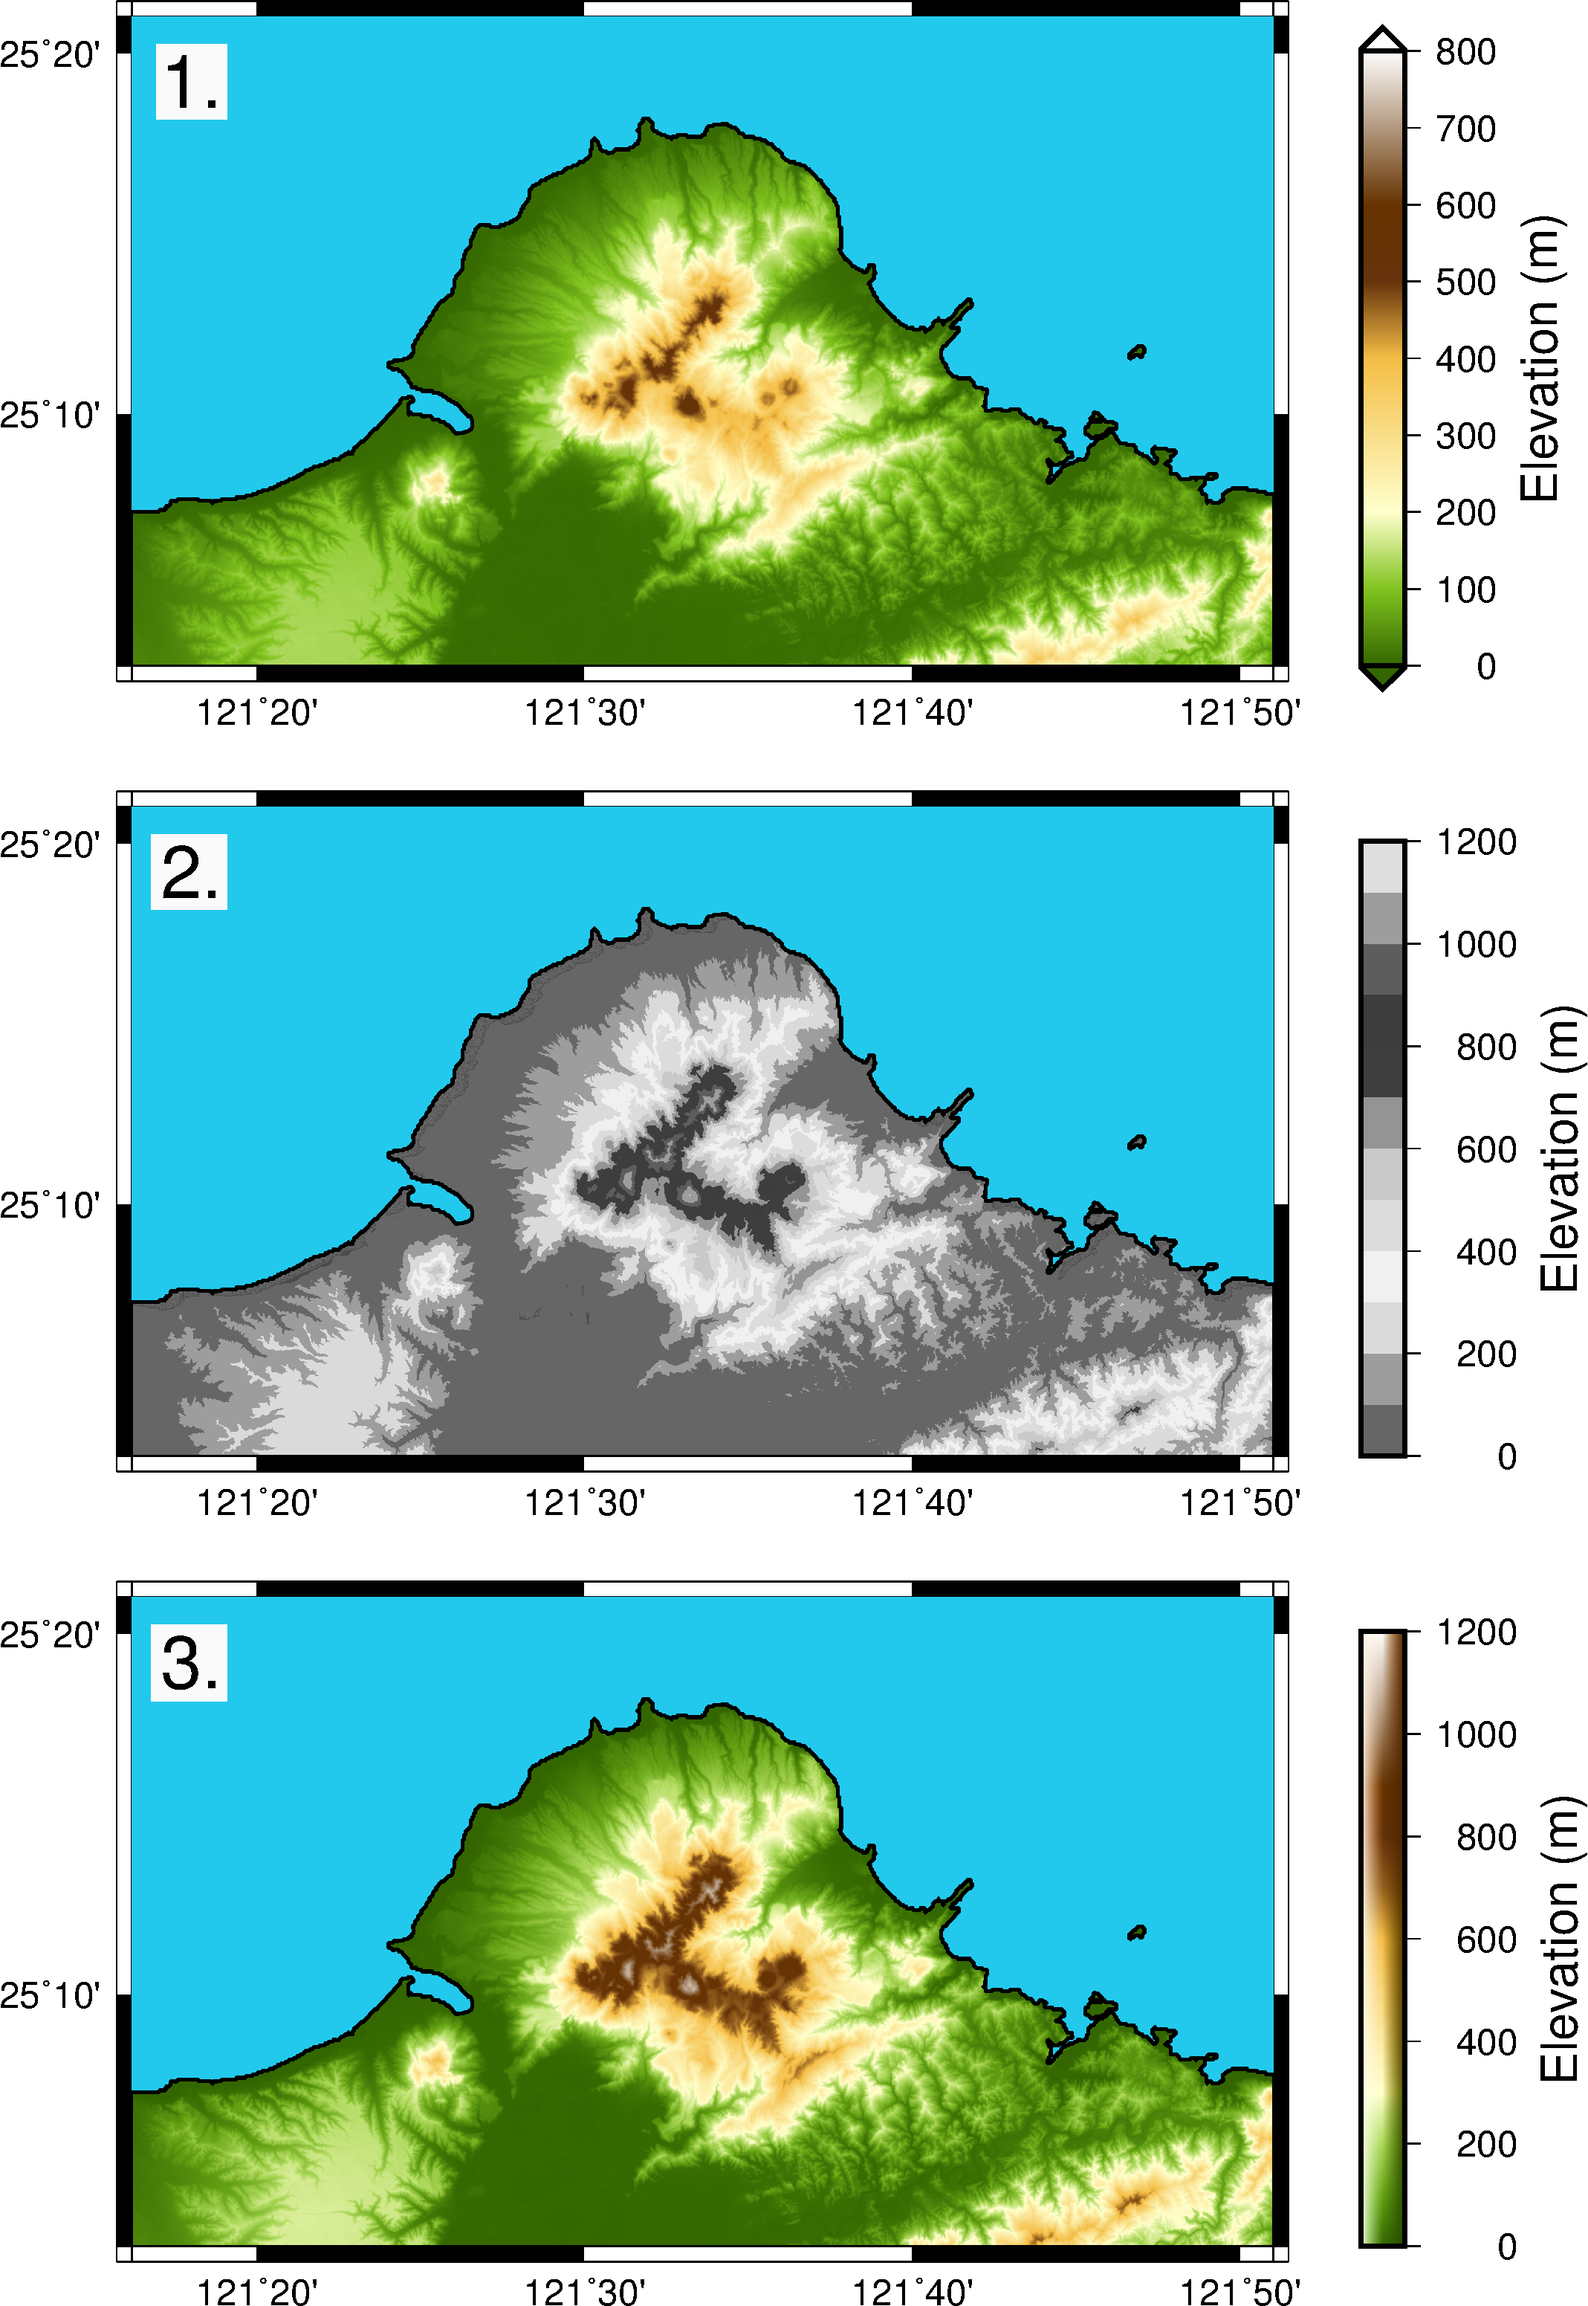
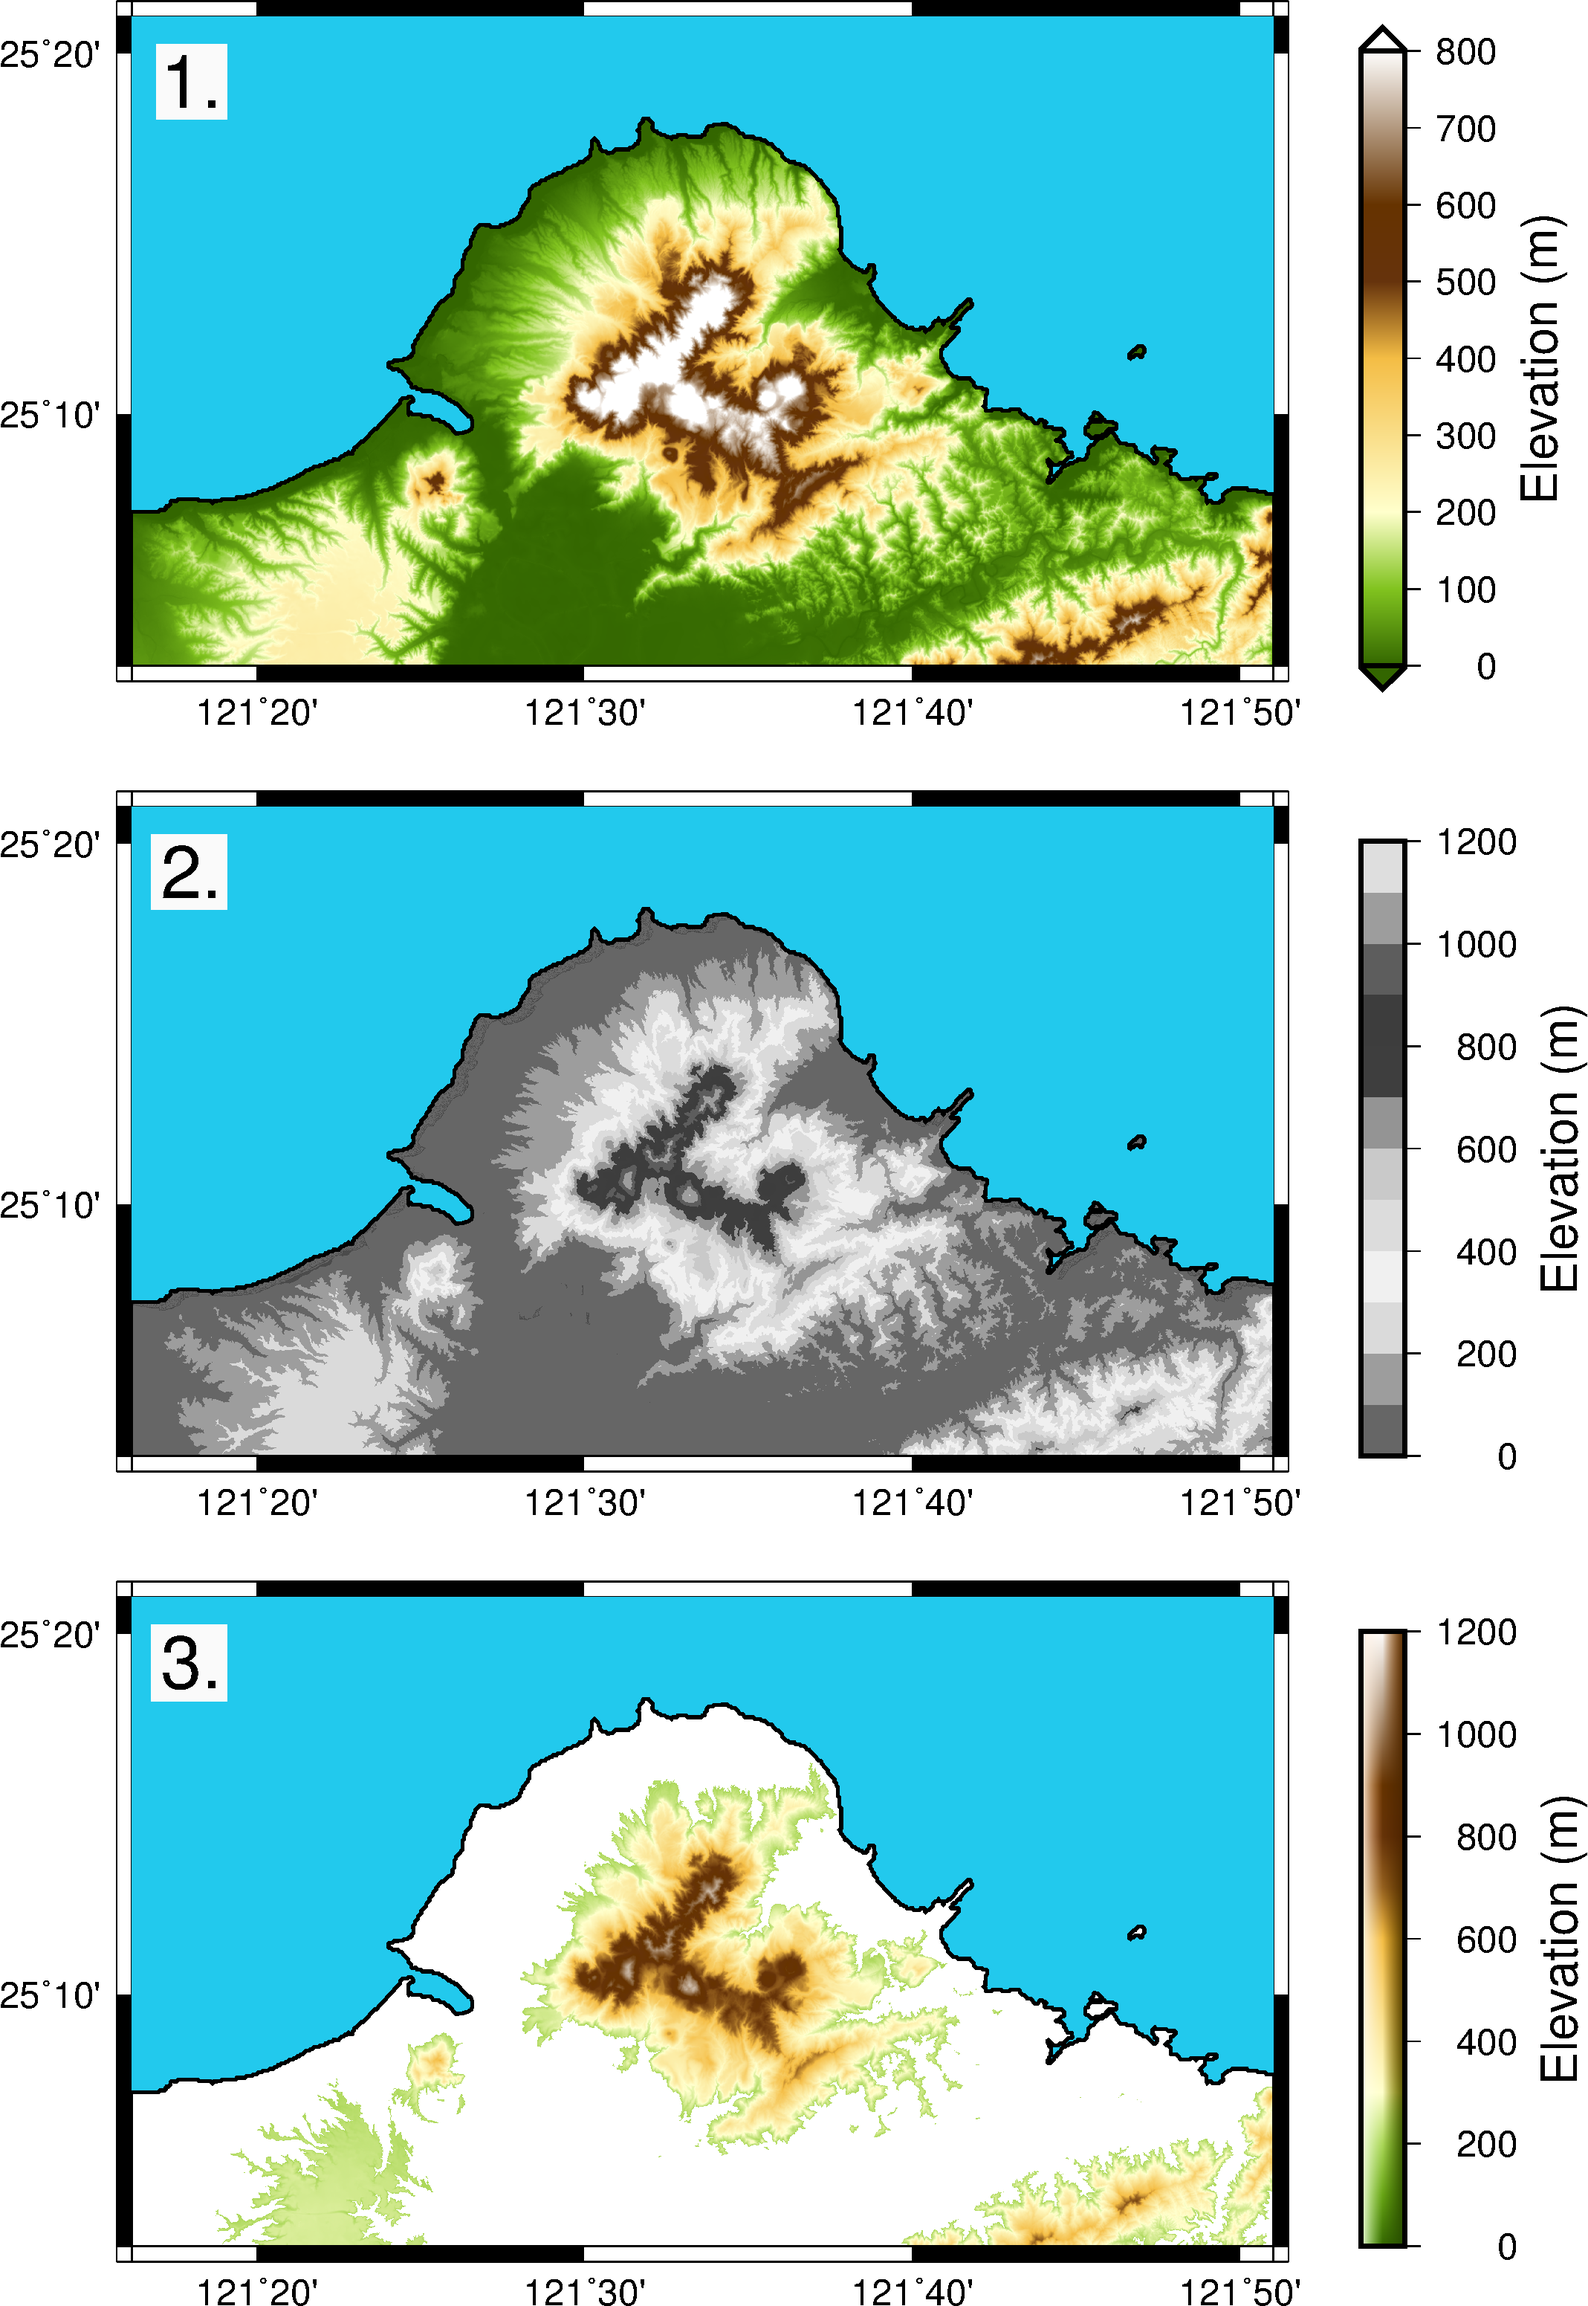
add grdclip in 8-4

Changed region(s): [[0.0618, 0.7427, 0.803, 0.9903], [0.0927, 0.0619, 0.803, 0.3095]]

diff --git a/docs/topography_cpt.md b/docs/topography_cpt.md
@@ -141,16 +141,16 @@ echo 121.3 25.32 1. | gmt pstext -R -JM -F+f24p -G250 -K -O >> %ps%
 
 # 2. discrete 0~1200 dem1.cpt
 makecpt -C%cpt% -T0/1200/100 > tmp.cpt
-gmt grdimage yangmingShan.grd -R121.27/121.85/25.05/25.35 -JM13 -BWeSn -Ba -Ctmp.cpt ^
+gmt grdimage yangmingShan.grd -R -JM -BWeSn -Ba -Ctmp.cpt ^
 -M -Y-9 -K -O >> %ps%
 gmt pscoast -R -JM -Df -W1 -S34/201/237 -K -O >> %ps%
 gmt psscale -Ctmp.cpt -Dx14/0+w7/.5 -Ba200+l"Elevation (m)" -M -K -O >> %ps%
 echo 121.3 25.32 2. | gmt pstext -R -JM -F+f24p -G250 -K -O >> %ps%
 
-# 3. continuous 0~1200 dem1.cpt
+# 3. continuous 200~1200 dem1.cpt
 makecpt -C%cpt% -T0/1200/100 -Z > tmp.cpt
-gmt grdimage yangmingShan.grd -R121.27/121.85/25.05/25.35 -JM13 -BWeSn -Ba -Ctmp.cpt ^
--Y-9 -K -O >> %ps%
+gmt grdclip yangmingShan.grd -R -Sb200/NaN -Gtmp.grd
+gmt grdimage tmp.grd -R -JM -BWeSn -Ba -Ctmp.cpt -Q -Y-9 -K -O >> %ps%
 gmt pscoast -R -JM -Df -W1 -S34/201/237 -K -O >> %ps%
 gmt psscale -Ctmp.cpt -Dx14/0+w7/.5 -Ba200+l"Elevation (m)" -I -K -O >> %ps%
 echo 121.3 25.32 3. | gmt pstext -R -JM -F+f24p -G250 -K -O >> %ps%
@@ -166,6 +166,7 @@ del tmp*
 * `grdimage`投影網格或是影像(images)至地圖上:
   * `-C`輸入色階檔。
   * `-M`黑白畫面!!
+  * `-Q`當資料點為NaN(無值)時，變成透明色。
 * `psscale`繪製色彩條(color bar):
   * `-B`調整刻度間距。
   * `-C`輸入色階檔。
@@ -191,12 +192,21 @@ del tmp*
 <mark>2</mark> 將色階檔範圍改成0至1200，間距100，變成離散的色階檔，加上`-M`讓地圖與色彩條都變成黑白模式。
 
 <mark>3</mark> 將色階檔範圍改成0至1200，間距100，`-Z`變成連續的色階檔，`-I`開啟色彩條照明效果。
+這裡使用`grdclip`將高度200以下的資料設定為NaN，配合`grdimage -Q`，讓高度200以下的地區，以透明著色。
+詳細的`grdclip`模組介紹。
+* `grdclip`剪切網格檔的範圍。
+  * `-G`輸出檔名。
+  * `-R`範圍。
+  * `-Sa`上界值/取代數值，當數值超過上界時，用取代數值取代。
+  * `-Sb`下界值/取代數值，用法如上。
+  * `-Si`下界值/上界值/取代數值，用法如上，可以重覆使用，來設定特定數值範圍。
+  * `-Sr`舊值/取代數值，當數值等於舊值時，用取代數值取代。
 
 第一張圖使用原始dem1.cpt的範圍只有到800公尺，而陽明山區域最高海拔可至約1110公尺，
 導致在高度上並沒有辦法完整呈現山頭的資訊。第二張圖，將dem1.cpt的範圍改至1200後，並改成離散化的色階，
 山頭的資訊有較明顯的呈現，但河川的訊息變得不太明顯，示範用黑白模式是由於地形圖往往是製圖的背景，
 而黑白模式可以有效表達地形差異，又不會又不會搶走之後想表達主題的光彩。第三張圖，
-則是改善一、二兩張圖的缺點，較完整地呈現該地區的地形。
+則是針對200公尺以上的區域，較完整地呈現該地區的地形。
 
 ## 8.5 地形暈渲面
 Hillshading暈渲法(或稱陰影法)，是一種地形圖的表示方式，應用光影的原裡，
